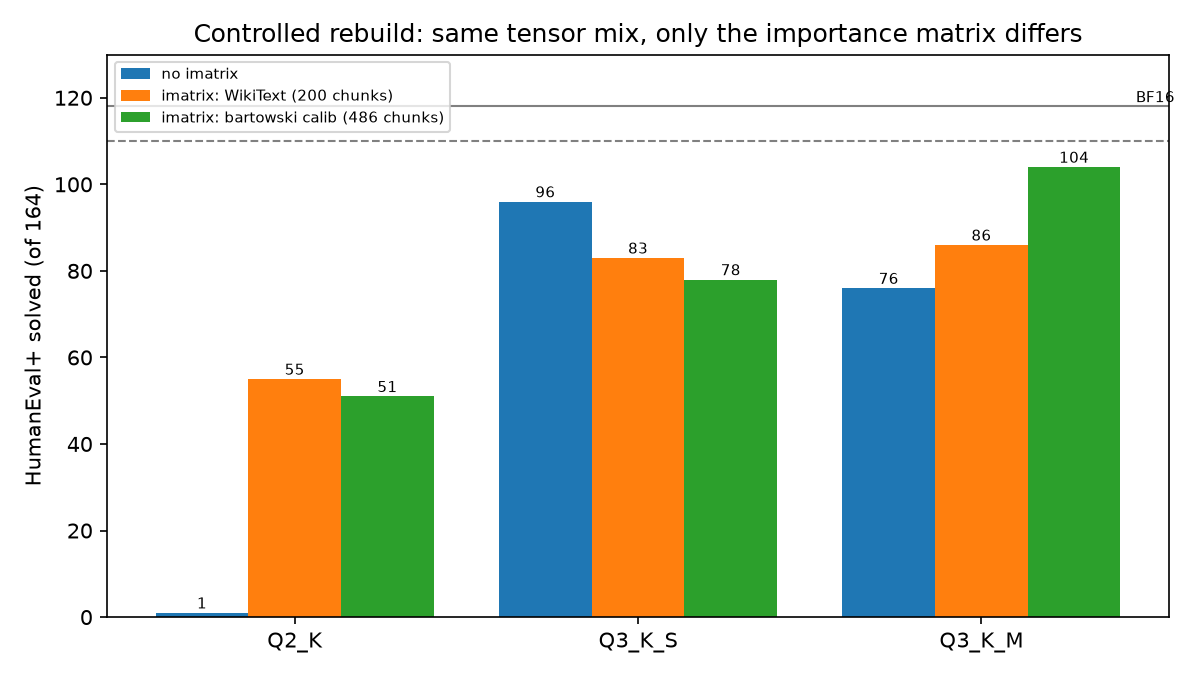
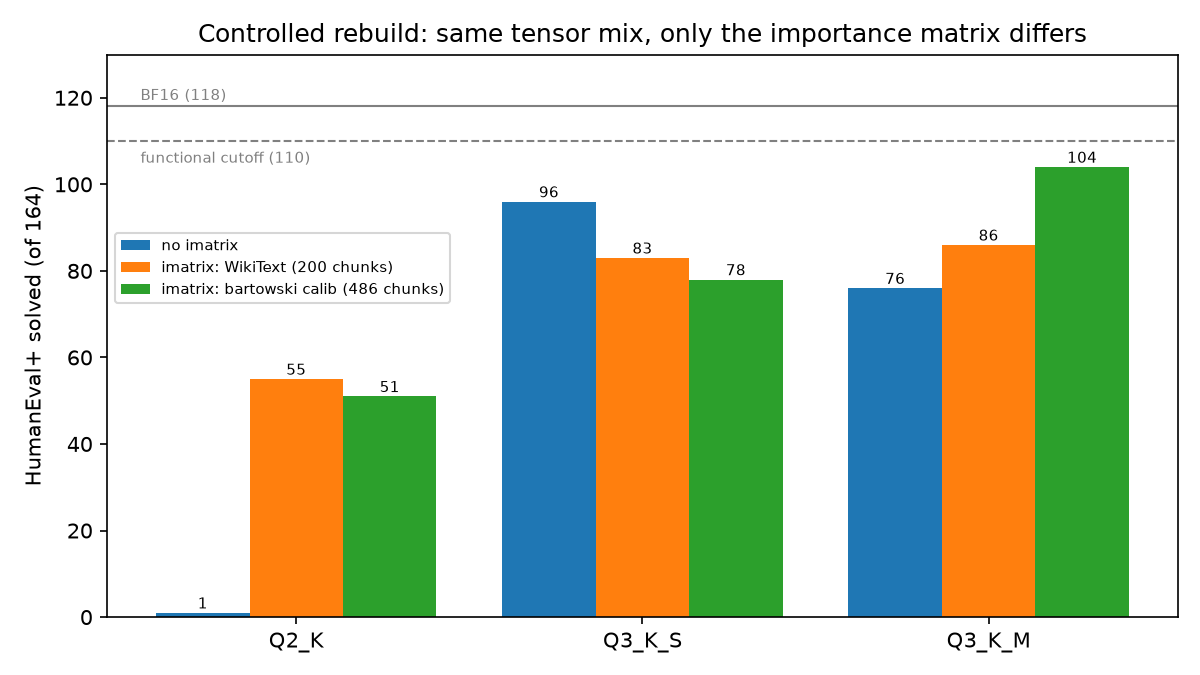
Fig 6: label reference lines

diff --git a/scripts/analyze.py b/scripts/analyze.py
@@ -240,13 +240,15 @@ for i, arm in enumerate(arms):
     for x, v in zip(xs, vals):
         ax.text(x, v + 1, str(int(v)), ha="center", fontsize=7)
 ax.axhline(T.BF16_CODE_PLUS, color="gray", lw=1)
-ax.text(2.45, T.BF16_CODE_PLUS + 1, "BF16", fontsize=7)
+ax.text(-0.45, T.BF16_CODE_PLUS + 1.5, f"BF16 ({T.BF16_CODE_PLUS})", fontsize=7, color="gray")
 ax.axhline(T.FUNCTIONAL_CODE_MIN, color="gray", ls="--", lw=1)
+ax.text(-0.45, T.FUNCTIONAL_CODE_MIN - 5, f"functional cutoff ({T.FUNCTIONAL_CODE_MIN})",
+        fontsize=7, color="gray")
 ax.set_ylim(0, 130)
 ax.set_xticks(range(len(quants))); ax.set_xticklabels(quants)
 ax.set_ylabel("HumanEval+ solved (of 164)")
 ax.set_title("Controlled rebuild: same tensor mix, only the importance matrix differs")
-ax.legend(fontsize=7, loc="upper left")
+ax.legend(fontsize=7, loc="center left", bbox_to_anchor=(0.0, 0.62))
 fig.tight_layout(); fig.savefig(F / "fig6_rebuild.png", dpi=150); plt.close(fig)
 
 print(json.dumps(out, indent=2, default=str))
